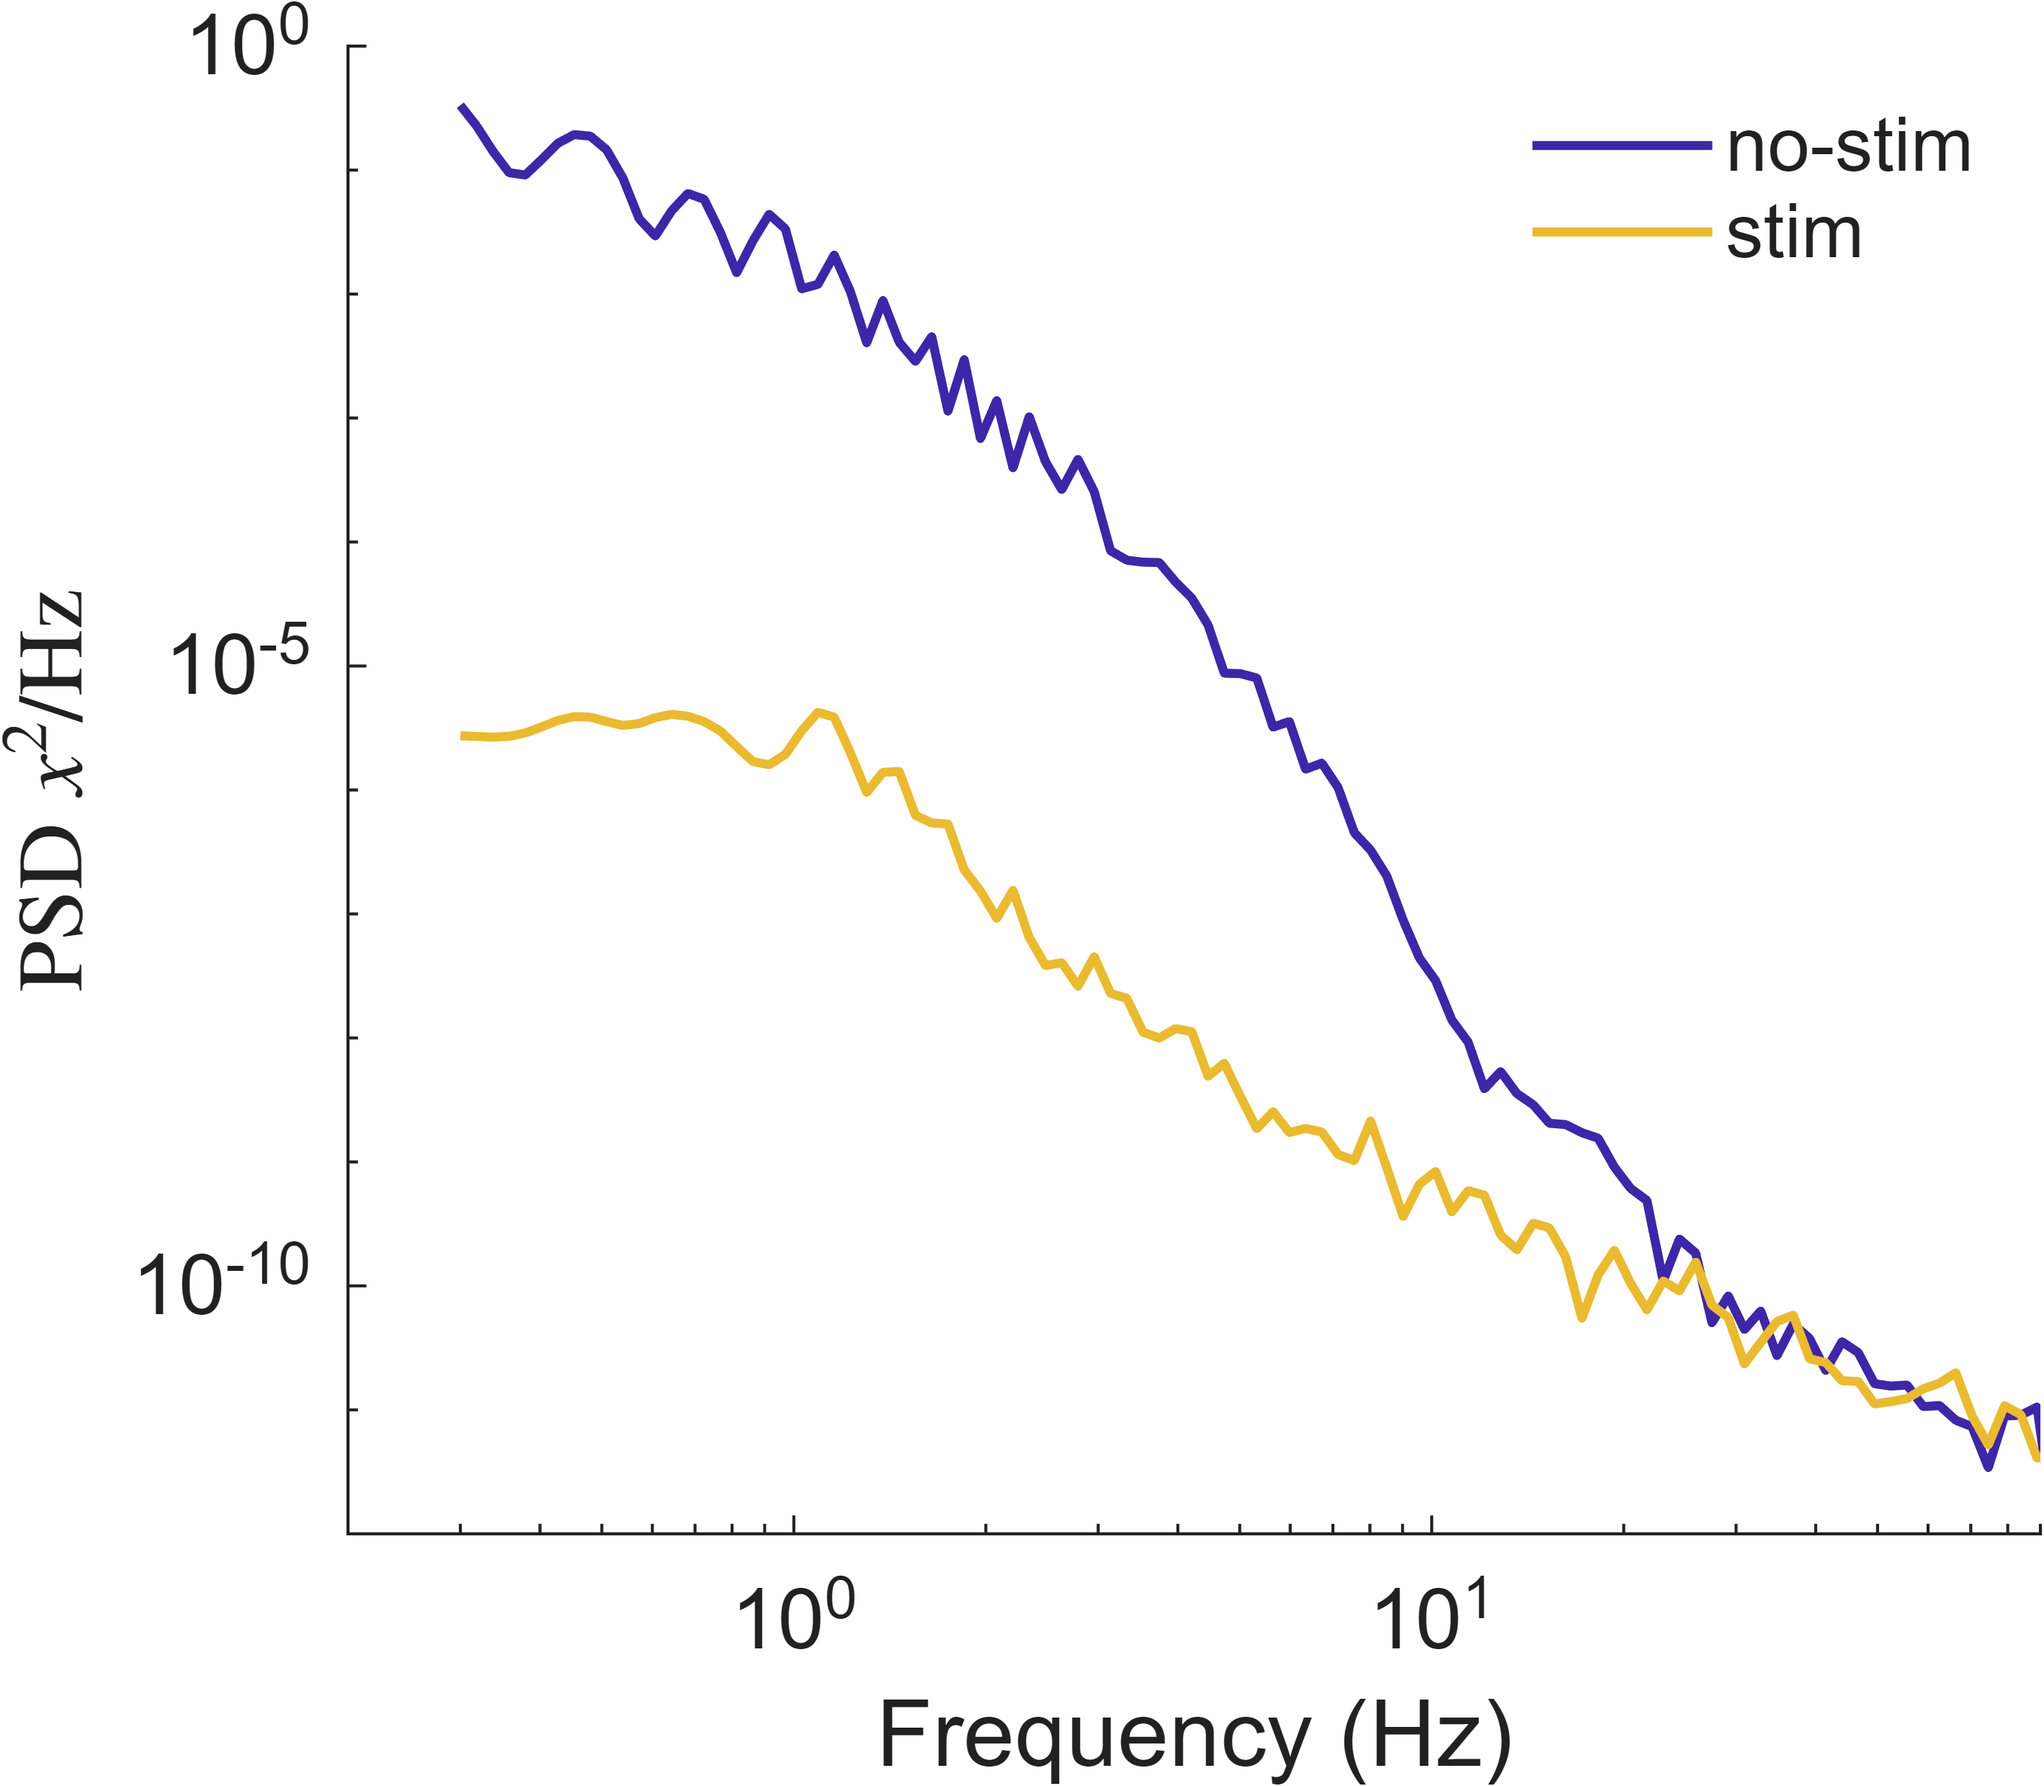
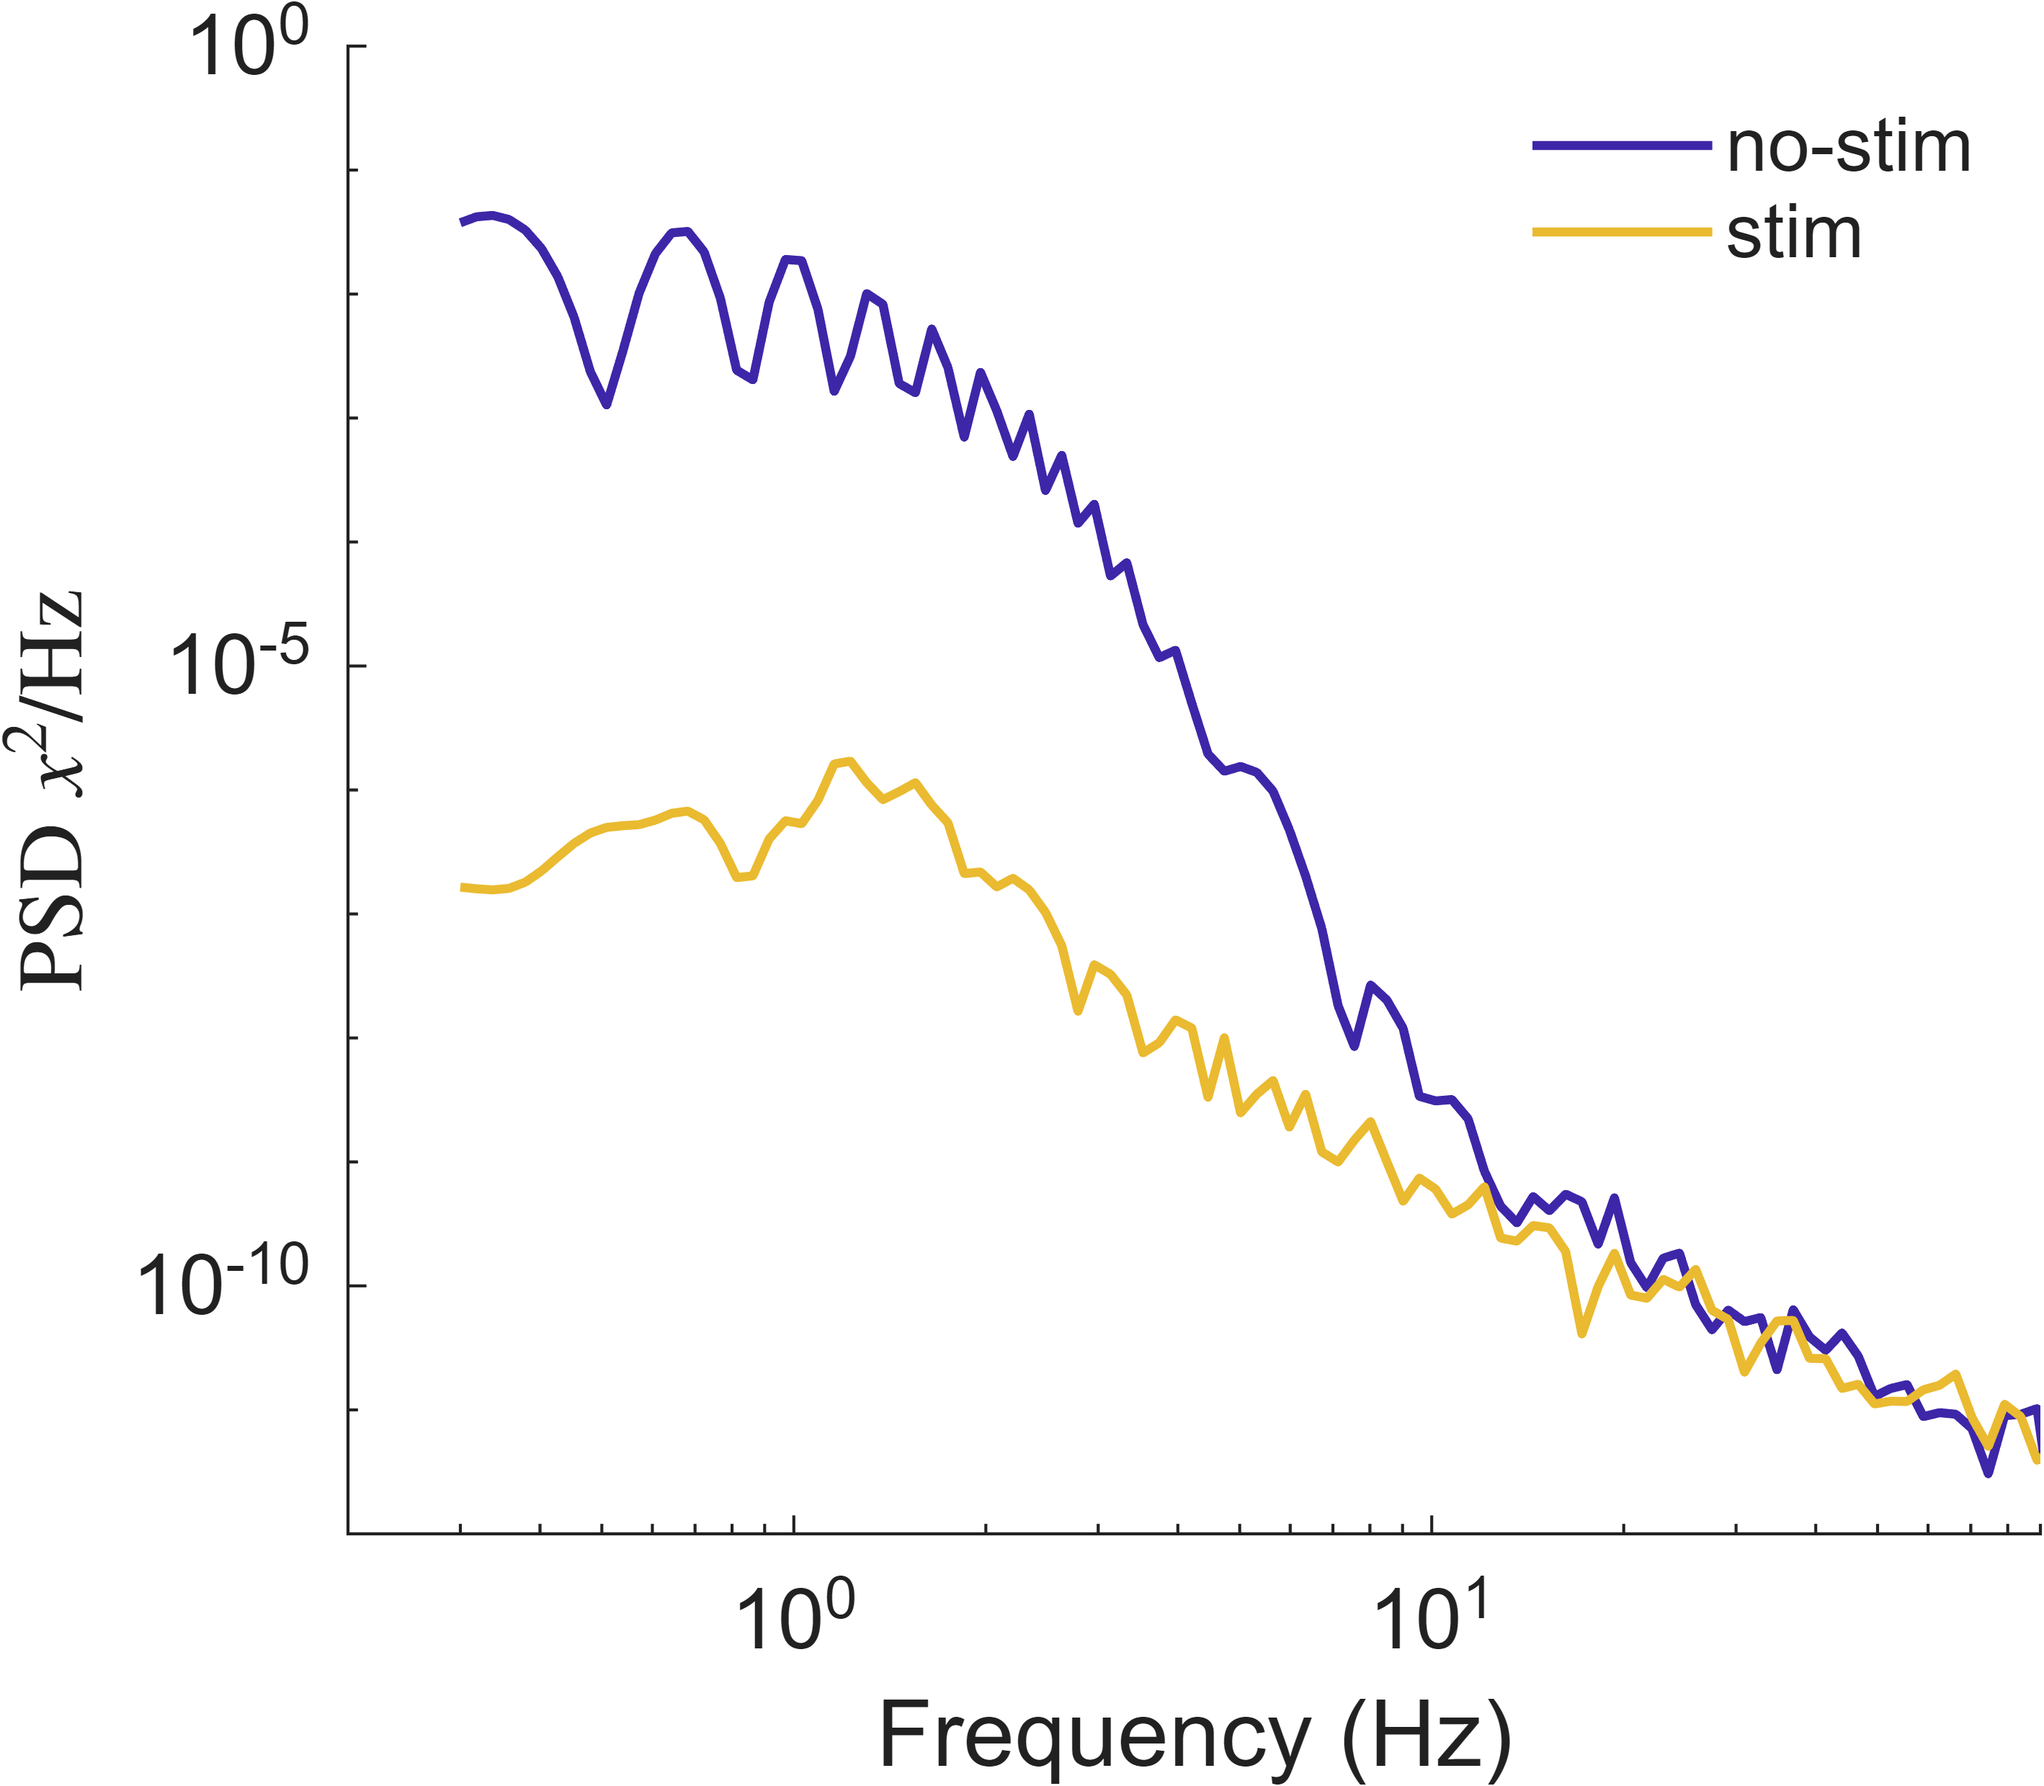
fixed tau_b_E_rel to be default

diff --git a/scripts/presentations/Stability_Manuscript/fig_stim_engages_adaptation/bursting_SRNN_example.m b/scripts/presentations/Stability_Manuscript/fig_stim_engages_adaptation/bursting_SRNN_example.m
@@ -79,7 +79,7 @@ tau_a_I = [];                                        % auto if n_a_I>0
 n_b_E       = 1;     % enable STD for E (0/1)            (default 0)
 n_b_I       = 0;     % enable STD for I (0/1)            (default 0)
 tau_b_E_rec = 1;     % E recovery time constant (s)      (default 1; old bursting = 1)
-tau_b_E_rel = 1;     % E release  time constant (s)      (default 0.25; old bursting = 1 = tau_STD)
+tau_b_E_rel = 0.25;     % E release  time constant (s)      (default 0.25; old bursting = 1 = tau_STD)
 tau_b_I_rec = 1;     % I recovery time constant (s)      (default 1)
 tau_b_I_rel = 0.25;  % I release  time constant (s)      (default 0.25)
 
@@ -102,7 +102,7 @@ S_a = 0.9;       % piecewiseSigmoid slope param a (default 0.9)
 % For the logistic it sets the operating point: phi(S_c)=0.5 with unit slope there, so
 % the resting rate at x=0 is 1/(1+exp(4*S_c)) -- 0.48 -> ~0.13, 0.35 -> ~0.20, 1.0 -> ~0.02.
 % Larger S_c => lower baseline firing and lower gain near rest.
-S_c = 0.45;      % activation center param c (default 0.35)
+S_c = 0.5;      % activation center param c (default 0.35)
 
 switch lower(nonlinearity)
     case 'piecewise'
